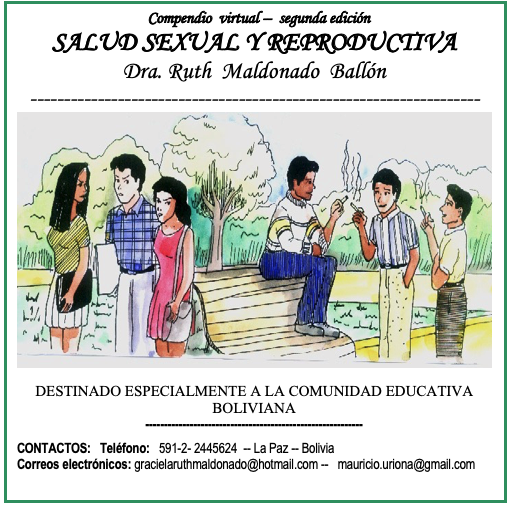
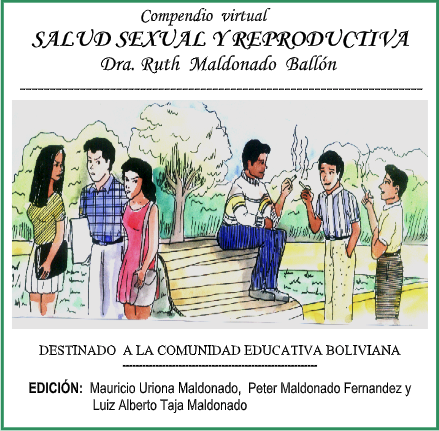
mudou a figura da mulher com lampada

diff --git a/content/license.md b/content/license.md
@@ -7,7 +7,7 @@ show_title_as_headline: true
 title: License
 ---
 
-My [blog posts](/post/) are released under a [Creative Commons Attribution-ShareAlike 4.0 International License](http://creativecommons.org/licenses/by-sa/4.0/).
+Mis libros se encuentran sobre una licencia [Creative Commons Attribution-ShareAlike 4.0 International License](http://creativecommons.org/licenses/by-sa/4.0/).
 
 <center>
 <i class="fab fa-creative-commons fa-2x"></i><i class="fab fa-creative-commons-by fa-2x"></i><i class="fab fa-creative-commons-sa fa-2x"></i>

diff --git a/content/contributors.md b/content/contributors.md
@@ -8,6 +8,8 @@ title: Agradecimientos
 
 Agradezco a todos los que contribuyeron con este proyecto, tanto de forma técnica como creativa:
 
-+ Peter Maldonado Fernandez
-+ Luis Taja Maldonado
-+ Mauricio Uriona Maldonado
+#### Peter Maldonado Fernandez
+
+#### Luiz Alberto Taja Maldonado
+
+#### Mauricio Uriona Maldonado

diff --git a/content/form/contact.md b/content/form/contact.md
@@ -4,7 +4,7 @@ description: Para contactarme, enviéme un mensaje
 draft: false
 formspree_form_id: gracielaruthmaldonado@hotmail.com
 layout: split-right
-name: Contact Us Form
+name: Formulario
 show_poweredby_formspree: true
 show_social_links: false
 submit_button_label: Enviar

diff --git a/content/project/_index.md b/content/project/_index.md
@@ -3,7 +3,7 @@ author: Ruth Maldonado Ballón
 cascade:
   show_author_byline: true
   show_comments: false
-  show_post_date: true
+  show_post_date: false
   sidebar:
     show_sidebar_adunit: true
     text_link_label: Ver todos los libros
